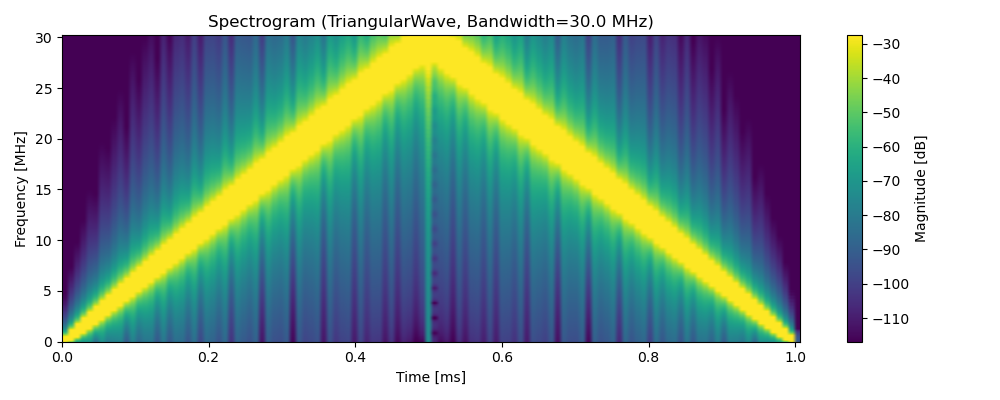
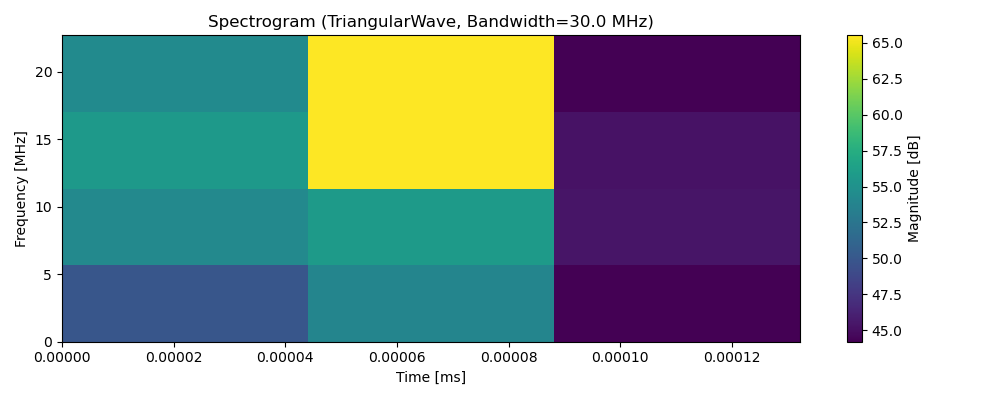
OOP SigProces
Added DoubleFFT class + functions for getting range matrix and axis

diff --git a/main.py b/main.py
@@ -2,48 +2,54 @@ from PlutoSDR import PlutoSDR
 import matplotlib.pyplot as plt
 import numpy as np
 from scipy.signal import stft
+
 PlutoIP = '192.168.2.1'
 sample_rate = 60.5e6 # in hz
 centerFrequency = 2.5e9 # in hz
 tx_gain = -20 # in db
 rx_gain = 40 # in db
-rx_frame_duration = 1 # in ms
+rx_frame_duration = 0.000128 # in ms
 rx_samples_per_frame = int((rx_frame_duration*(10**-3))*sample_rate)
 
 chirp_type = "TriangularWave" # Options: "SawtoothWave", "TriangularWave"
 chirp_amplitude = (2**12)
 chirp_bandwidth = 30e6 # hz
 chirp_duration = rx_frame_duration # ms
-
+max_chirps = 255
 sdr_obj = PlutoSDR(PlutoIP, sample_rate, centerFrequency, centerFrequency, rx_gain, tx_gain, rx_samples_per_frame, skip_pluto_configuration=True)
 sdr_obj.set_waveform(chirp_type, chirp_amplitude, chirp_bandwidth, chirp_duration)
 
+c = 3e8
+
 nperseg = 1024  # Increased from 256
-f, t, Zxx = stft(sdr_obj.tx_iq, fs=sample_rate, nperseg=nperseg, return_onesided=False)
 
-magnitude = np.abs(Zxx)
-magnitude_db = 20 * np.log10(magnitude + 1e-12)
 
-positive_freqs = f >= 0
-f_pos = f[positive_freqs] / 1e6  # Convert to MHz
-Z_pos = magnitude_db[positive_freqs, :]
+if __name__ == '__main__':
+    f, t, Zxx = stft(sdr_obj.tx_iq, fs=sample_rate, nperseg=nperseg, return_onesided=False)
 
-plt.figure(figsize=(10, 4))
-plt.imshow(
-    Z_pos,
-    aspect='auto',
-    origin='lower',
-    extent=[t[0]*1e3, t[-1]*1e3, f_pos[0], f_pos[-1]],  # Time in ms, freq in MHz
-    cmap='viridis',
-    vmin=np.percentile(Z_pos, 10),
-    vmax=np.percentile(Z_pos, 90)
-)
-plt.xlabel('Time [ms]')
-plt.ylabel('Frequency [MHz]')
-plt.colorbar(label='Magnitude [dB]')
-plt.title(f'Spectrogram ({chirp_type}, Bandwidth={chirp_bandwidth/1e6} MHz)')
-plt.tight_layout()
-plt.savefig("spectrogram_corrected.png")
+    magnitude = np.abs(Zxx)
+    magnitude_db = 20 * np.log10(magnitude + 1e-12)
+
+    positive_freqs = f >= 0
+    f_pos = f[positive_freqs] / 1e6  # Convert to MHz
+    Z_pos = magnitude_db[positive_freqs, :]
+    plt.figure(figsize=(10, 4))
+    plt.imshow(
+        Z_pos,
+        aspect='auto',
+        origin='lower',
+        extent=[t[0]*1e3, t[-1]*1e3, f_pos[0], f_pos[-1]],  # Time in ms, freq in MHz
+        cmap='viridis',
+        vmin=np.percentile(Z_pos, 10),
+        vmax=np.percentile(Z_pos, 90)
+    )
+    plt.xlabel('Time [ms]')
+    plt.ylabel('Frequency [MHz]')
+    plt.colorbar(label='Magnitude [dB]')
+    plt.title(f'Spectrogram ({chirp_type}, Bandwidth={chirp_bandwidth/1e6} MHz)')
+    plt.tight_layout()
+    plt.savefig("spectrogram_corrected.png")
+
 
 # %%%%%%%%%%%%%%%%%%%% Pluto's parameters configuration %%%%%%%%%%%%%%%%%%%%%
 

diff --git a/ObjectSignalProcessing.py b/ObjectSignalProcessing.py
@@ -1,0 +1,63 @@
+import numpy as np
+import scipy.fft as fft
+from main import chirp_bandwidth, chirp_duration, centerFrequency, sample_rate, c
+import matplotlib.pyplot as plt
+from processingtest import RadarChirpSimulator
+
+
+def next_pow2(n):
+    return 1 if n == 0 else 2**int(np.ceil(np.log2(n)))
+
+class DoubleFFT:
+    def __init__(self, chirp_bandwidth: int, chirp_duration: float, center_frequency: int, sample_rate: int, max_chirps: int):
+        self.chirp_bandwidth = chirp_bandwidth
+        self.chirp_duration = chirp_duration
+        self.center_frequency = center_frequency
+        self.sample_rate = sample_rate
+        self.max_chirps = max_chirps
+        self.k = self.chirp_bandwidth/self.chirp_duration
+        self.rows = int(chirp_duration*sample_rate)
+        self.cols = max_chirps
+        self.data_matrix = np.zeros((self.rows, self.cols), dtype = np.complex64)
+        self.count = 0
+        self.N_FFT = next_pow2(self.rows)
+        self.pos_indices = self.N_FFT//2
+    
+    def get_matrix(self, data_vector: np.ndarray):
+        if data_vector.ndim != 1 or data_vector.size != self.rows:
+            raise ValueError(f"Expected 1D array of length {int(self.rows)}, got shape {tuple(data_vector.shape)}")
+        data_vector = data_vector.reshape(self.rows, 1)
+
+        if self.count < self.max_chirps:
+            self.data_matrix[:, self.count] = data_vector[:, 0]
+        else:
+            self.data_matrix = np.roll(self.data_matrix, -1, axis=1)
+            self.data_matrix[:, -1] = data_vector[:, 0]
+        self.count += 1
+
+        pos_indices =  self.N_FFT // 2
+
+        Non_normalized_FFT_data = fft.fftshift(fft.fft(self.data_matrix, n=self.N_FFT, axis=0), axes=0)[self.pos_indices:]
+        Range_matrix = np.abs(Non_normalized_FFT_data) / np.max(np.abs(Non_normalized_FFT_data))
+        
+        return Range_matrix.T
+    def get_range_axis(self):
+            f_axis = fft.fftshift(fft.fftfreq(self.N_FFT, d=1/sample_rate))
+            f_axis_pos = f_axis[self.pos_indices:] 
+            range_axis = (c * f_axis_pos) / (2 * self.k)
+            return range_axis  
+ 
+sim = RadarChirpSimulator()
+test = DoubleFFT(chirp_bandwidth=chirp_bandwidth, chirp_duration= chirp_duration, center_frequency=centerFrequency,sample_rate=sample_rate, max_chirps=256)
+i = 0       
+
+if __name__ == '__main__':
+    while i < 10:
+        next_chirp = sim.get_next_chirp()
+        real = test.get_matrix(next_chirp)
+        axis = test.get_range_axis()
+        samples = range(256)
+        plt.pcolormesh(axis,samples, real)
+        plt.xlim((0,200))
+        plt.show()
+        i +=1

diff --git a/SignalProcessing.py b/SignalProcessing.py
@@ -7,10 +7,10 @@ from scipy.fft import fft, fftshift, fftfreq
 
 import sys
 from main import sample_rate, chirp_bandwidth, chirp_duration, centerFrequency
-# chirp_bandwidth = 30e6 # hz
-# chirp_duration = 0.000128 # ms
-# sample_rate = 1e6# in hz
-# centerFrequency = 2.5e9 # in hz
+chirp_bandwidth = 30e6 # hz
+chirp_duration = 0.000128 # ms
+sample_rate = 1e6# in hz
+centerFrequency = 2.5e9 # in hz
 max_chirps = 255
 chirps_per_refresh = 1
 
@@ -41,7 +41,6 @@ def DoubleFFT():
     f_axis_pos = f_axis[half_idx:] 
 
     range_axis = (c * f_axis_pos) / (2 * k)
-    
     
     app = QtWidgets.QApplication(sys.argv)
     lut = pg.colormap.get('viridis').getLookupTable(0.0, 1.0, 256)

diff --git a/processingtest.py b/processingtest.py
@@ -1,13 +1,13 @@
 import numpy as np
 from numpy.random import normal
-from SignalProcessing import chirp_bandwidth, chirp_duration, sample_rate, centerFrequency, max_chirps
+from main import chirp_bandwidth, chirp_duration, sample_rate, centerFrequency, max_chirps
 
 
 class RadarChirpSimulator:
     def __init__(self, 
                  B=chirp_bandwidth, T=chirp_duration, f0=centerFrequency, fs=sample_rate,
                  R_target=np.array([10, 100]), 
-                 v=np.array([400, -10]), 
+                 v=np.array([40, -10]), 
                  SNR_dB=-16, 
                  N_slow=max_chirps):
         self.B = B

diff --git a/PlutoSDR.py b/PlutoSDR.py
@@ -1,4 +1,4 @@
-import adi
+# import adi
 import numpy as np
 import scipy.fft as fft
 import time

diff --git a/tempCodeRunnerFile.py b/tempCodeRunnerFile.py
@@ -1,1 +1,1 @@
-sample_rate = 1e6 
+N_FFT, d=1/sample_rate
